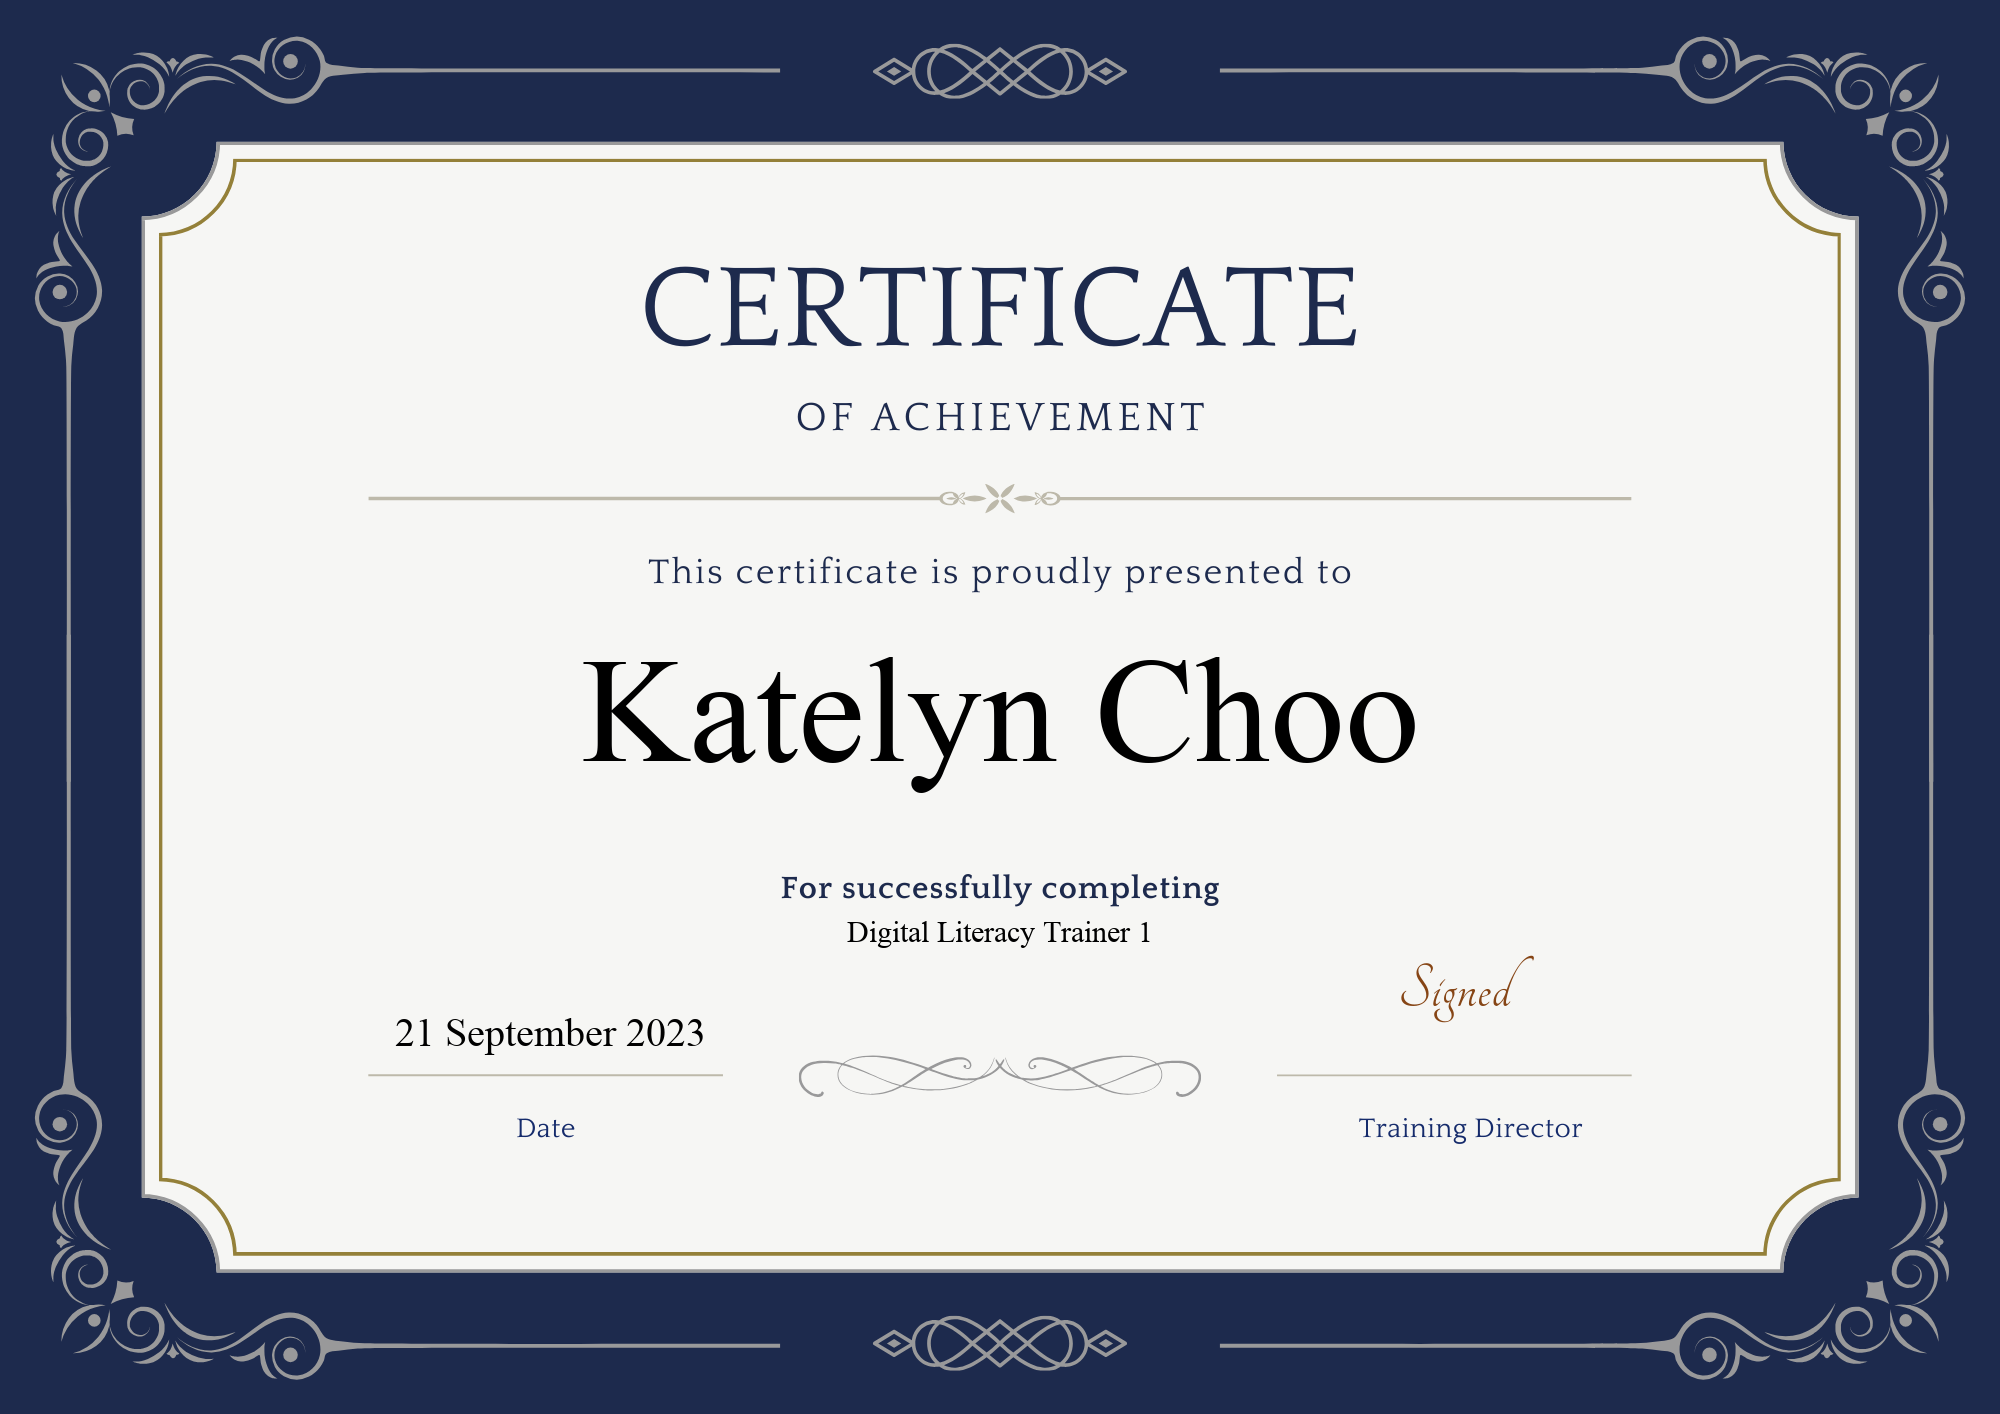
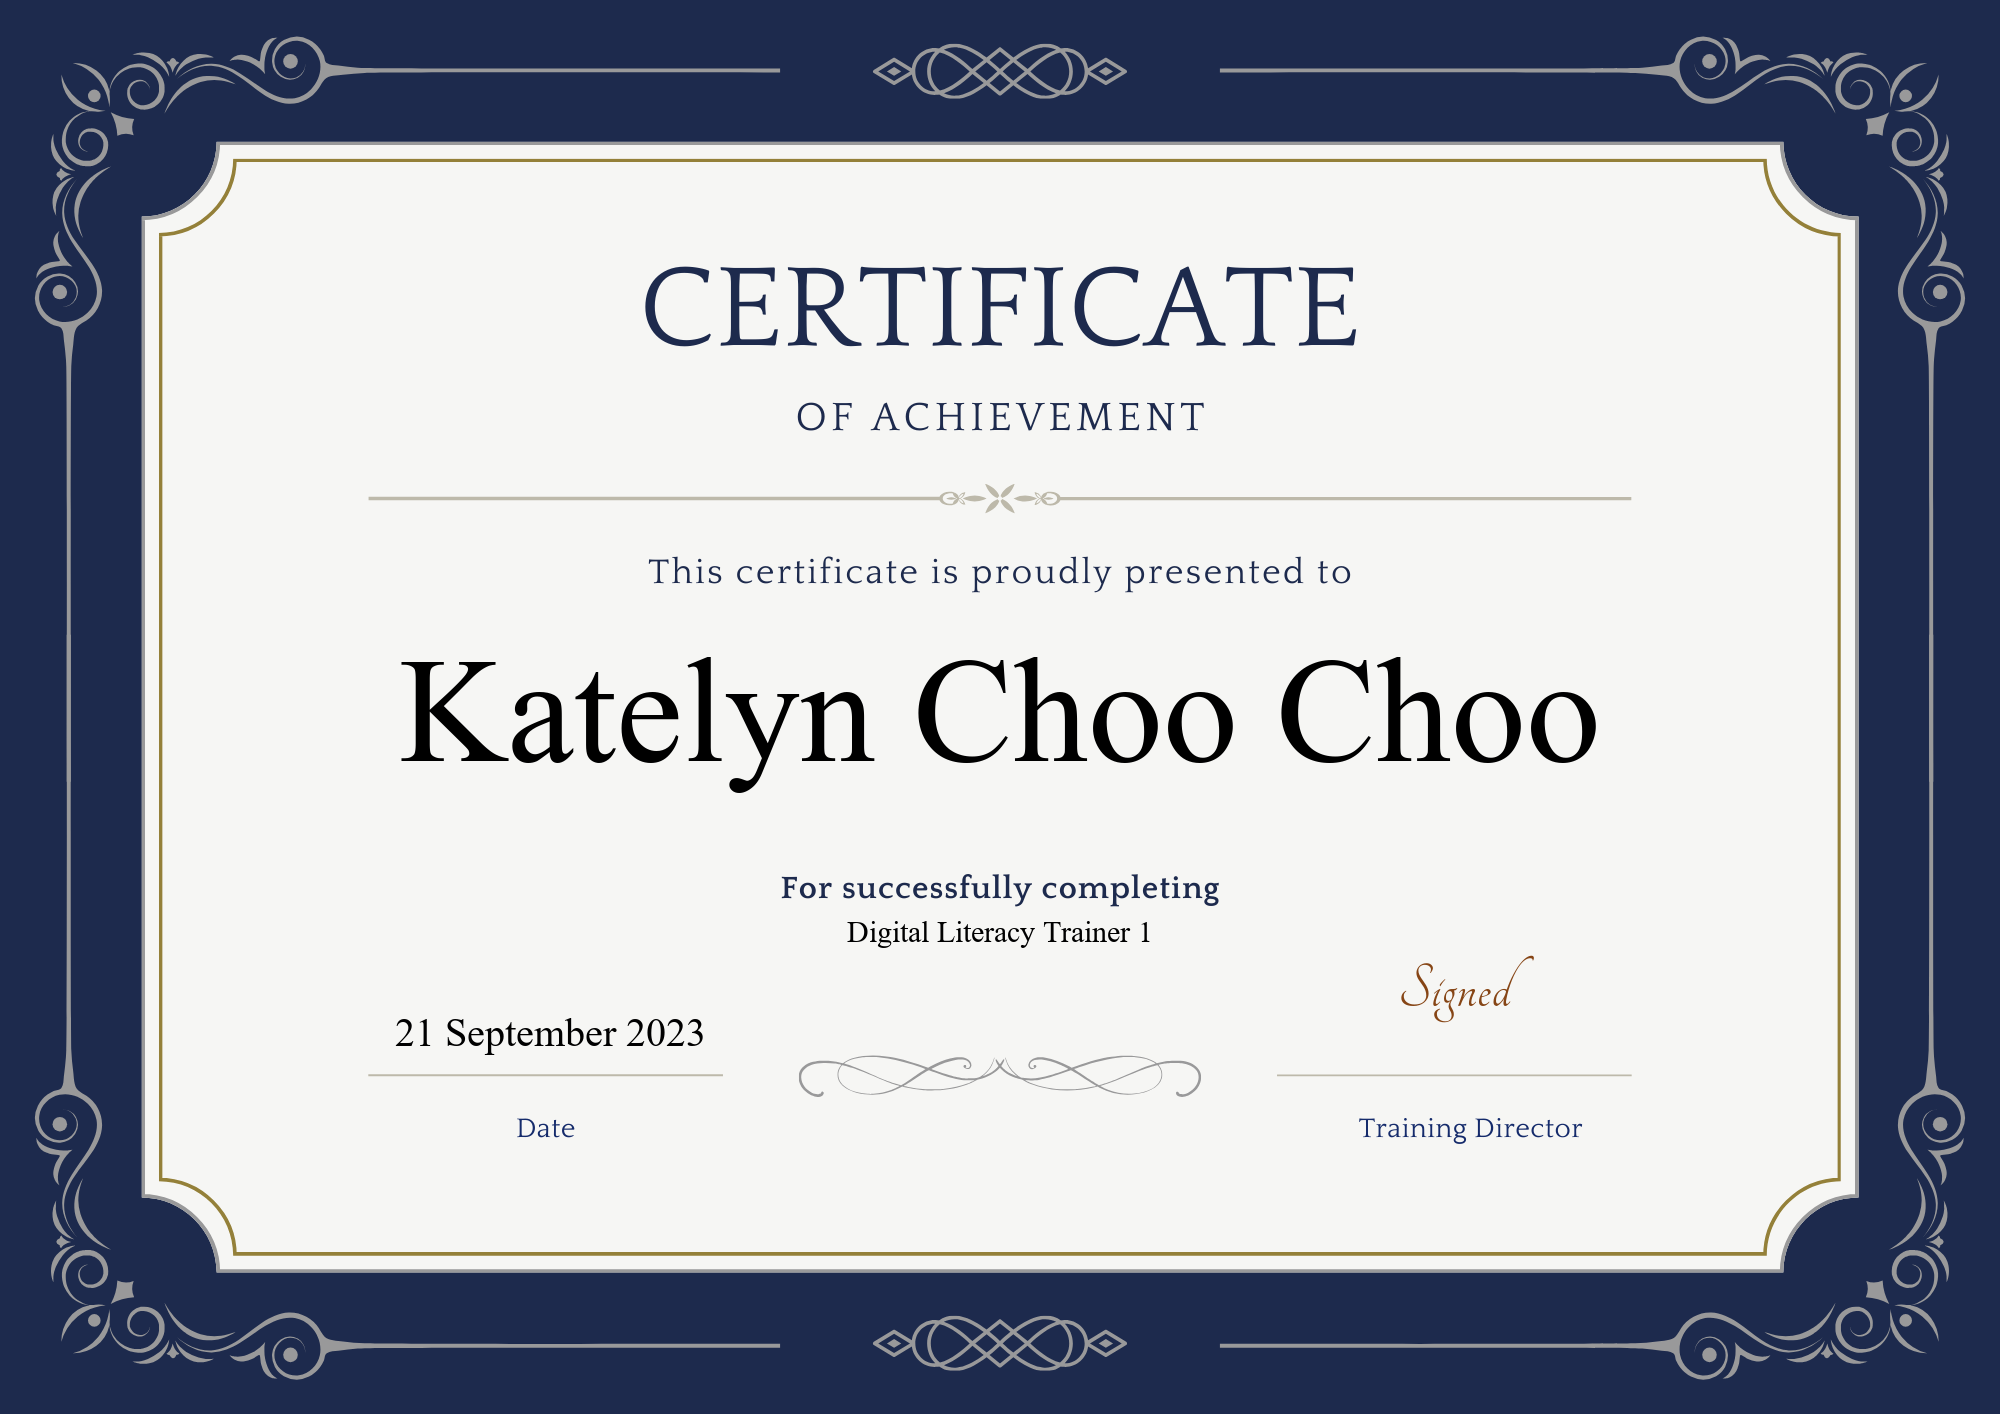
Update /enroll

Changed region(s): [[0.186, 0.4668, 0.806, 0.5601]]

diff --git a/Hack4GoodBOT/main.py b/Hack4GoodBOT/main.py
@@ -1,22 +1,11 @@
-import response
+import Miscellaneous.response
 from Hack4GoodBOT.config import config
-from Hack4GoodBOT.command import help_command, browse_command, attended_command, register_command, \
-    upcoming_command, feedback_command
+from Hack4GoodBOT.command import (help_command, browse_command, attended_command, register_command,
+                                  upcoming_command, feedback_command)
 from telegram import Update, InlineKeyboardButton, InlineKeyboardMarkup
 from telegram.ext import (Application, CommandHandler, ConversationHandler, MessageHandler, filters, ContextTypes,
                           CallbackQueryHandler)
 
-
-# Start Command
-async def start_command(update: Update, context: ContextTypes.DEFAULT_TYPE) -> None:
-    await update.message.reply_text("Hi there, I am Hack4GoodBOT!\nType /help to see available commands.")
-
-
-# Error
-async def error(update: Update, context: ContextTypes.DEFAULT_TYPE):
-    print(f'Update {update} caused error {context.error}')
-    
-# Enroll
 # Define the conversation states
 NAME, AGE, GENDER, WORK_STATUS, IMMIGRATION_STATUS, INTERESTS, SKILLS, SUMMARY = range(8)
 
@@ -32,19 +21,18 @@ SKILLS_BUTTONS = ["Leadership", "Technical and Digital Skills", "Teaching and Me
 user_data = {}
 
 
-async def enroll_command(update, context):
+async def start_enroll(update, context):
     # Initialize user data in the conversation
     user_data[update.message.chat_id] = {}
 
     # Ask for the user's name
-    await update.message.reply_text("Please enter your name:")
+    await update.message.reply_text("Input \"/cancel\" to cancel your enrollment.\nPlease enter your name:")
     return NAME
 
 
 async def ask_name(update, context):
     # Store the user's name in the user_data dictionary
     user_data[update.message.chat_id]['name'] = update.message.text
-    context.user_data['state'] = NAME  # Track the current state
 
     # Ask for age
     await update.message.reply_text("Please enter your age:")
@@ -158,8 +146,7 @@ async def ask_summary(update, context):
 
     # Display the summary to the user
     await update.callback_query.message.reply_text(
-        f"Here is a summary of your information:\n\n{summary}\n\nPlease proceed to browsing our available "
-        f"oppotunities by clicking /view_opportunities!")
+        f"Here is a summary of your information:\n\n{summary}\n\nPlease proceed to browsing our available oppotunities by clicking /browse!")
 
     return SUMMARY
 
@@ -178,33 +165,26 @@ async def confirm_summary(update, context):
     else:
         # Information is incorrect, restart the enrollment process
         await update.callback_query.message.reply_text("Okay, let's start over.")
-        return enroll_command(update, context)
+        return start_enroll(update, context)
 
     return ConversationHandler.END
-
-
-async def feedback(update, context):
-    # Provide the Google Form link for feedback
-    feedback_link = "https://www.youtube.com/watch?v=vZtm1wuA2yc&t=1138s&ab_channel=Indently"
-
-    # Create an InlineKeyboardButton with the feedback link
-    button = InlineKeyboardButton("Provide Feedback", url=feedback_link)
-
-    # Create an InlineKeyboardMarkup with the button
-    keyboard = InlineKeyboardMarkup([[button]])
-
-    # Send a message with the feedback link and the button
-    await update.message.reply_text(
-        "Please provide your feedback using the following link:",
-        reply_markup=keyboard
-    )
 
 
 async def cancel(update, context):
     # Clear the user_data and end the conversation
     del user_data[update.message.chat_id]
     await update.message.reply_text("Okay, let's start over.")
-    return enroll_command(update, context)
+    return start_enroll(update, context)
+
+
+# Start Command
+async def start_command(update: Update, context: ContextTypes.DEFAULT_TYPE) -> None:
+    await update.message.reply_text("Hi there, I am Hack4GoodBOT!\nType /help to see available commands.")
+
+
+# Error
+async def error(update: Update, context: ContextTypes.DEFAULT_TYPE):
+    print(f'Update {update} caused error {context.error}')
 
 
 # Main
@@ -216,7 +196,6 @@ def main() -> None:
     # Commands
     app.add_handler(CommandHandler("start", start_command))
     app.add_handler(CommandHandler("help", help_command.help_command))
-    app.add_handler(CommandHandler("enroll", enroll_command))
     app.add_handler(CommandHandler("browse", browse_command.browse_command))
     app.add_handler(CommandHandler("register", register_command.register_command))
     app.add_handler(CommandHandler("attended", attended_command.attended_command))
@@ -231,7 +210,7 @@ def main() -> None:
 
     # Define the conversation handler
     conv_handler = ConversationHandler(
-        entry_points=[CommandHandler('enroll', enroll_command)],
+        entry_points=[CommandHandler('enroll', start_enroll)],
         states={
             NAME: [MessageHandler(filters.TEXT, ask_name)],
             AGE: [MessageHandler(filters.TEXT, ask_gender)],
@@ -245,11 +224,11 @@ def main() -> None:
         fallbacks=[CommandHandler('cancel', cancel)]
     )
 
-    # Add the conversation handler to the app
+    # Add the conversation handler to the dispatcher
     app.add_handler(conv_handler)
 
     # Messages
-    app.add_handler(MessageHandler(filters.TEXT & ~filters.COMMAND, response.handle_message))
+    app.add_handler(MessageHandler(filters.TEXT & ~filters.COMMAND, Miscellaneous.response.handle_message))
 
     # Errors
     app.add_error_handler(error)

diff --git a/Certificate/generate_certificate.py b/Certificate/generate_certificate.py
@@ -2,12 +2,12 @@ from PIL import Image, ImageDraw, ImageFont
 
 
 def create_certificate(
-    name, date, course
+        name, date, course
 ):
-    template_path = "Certificate/certificate_template.png"
+    template_path = "./certificate_template.png"
     font_path = "Certificate/times.ttf"
     name_position = (1000, 707)
-    output_path = "Certificate/personalized_certificate.png"
+    output_path = "./personalized_certificate.png"
 
     # Load the certificate template
     image = Image.open(template_path)
@@ -17,11 +17,11 @@ def create_certificate(
     name_font = ImageFont.truetype(font_path, 150)
     # Add name text
     name_text_width = draw.textlength(name, font=name_font)
-        # Calculate the position
+
+    # Calculate the position
     x = name_position[0] - name_text_width / 2
     y = name_position[1] - 80
     draw.text((x, y), name, font=name_font, align="center", fill="black")
-
 
     # Add date text
     date_font = ImageFont.truetype(font_path, 40)
@@ -36,10 +36,10 @@ def create_certificate(
     # Save the modified image
     image.save(output_path)
 
+
 # Example usage
-name = "Katelyn Choo"
+name = "Katelyn Choo Choo"
 date = "21 September 2023"
 course = "Digital Literacy Trainer 1"
-
 
 create_certificate(name, date, course)
